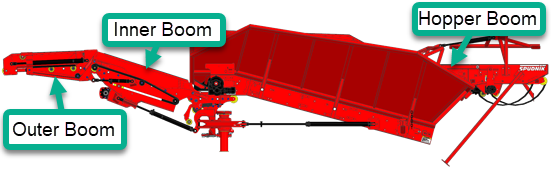
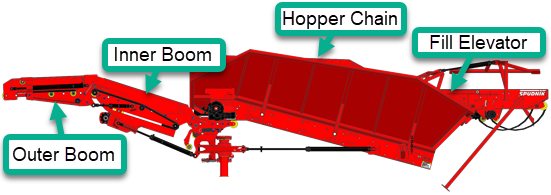
Revise Boom screen and Chain Screen
remove pressure display when no corresponding input is available. Update Hopper chain controls.

diff --git a/6844/control_panel_v6.html b/6844/control_panel_v6.html
@@ -19,8 +19,8 @@
 				class="b-settings pri-button pri icon-lg"></button>
 			<button onclick="changeColorTimed(this)" class="b-rowStart pri-button pri icon">Start Row</button>
 			<button onclick="changeColorTimed(this)" class="b-rowEnd pri-button pri icon">End Row</button>
-			<button id="run-button" onclick="toggleRUN()" class="b-run pri-button pri-em"><img
-					src="./icons/RUN_Sm.png" alt="RUN" style="margin-top: 8px;"></button>
+			<button id="run-button" onclick="toggleRUN()" class="b-run pri-button pri-em"><img src="./icons/RUN_Sm.png"
+					alt="RUN" style="margin-top: 8px;"></button>
 		</div>
 		<div id="controls">
 			<div id="control-body">
@@ -262,8 +262,8 @@
 							<th class="cell-border-bottom chains-psi">PSI</th>
 							<th class="cell-border-bottom chains-speed">Actual</th>
 							<th class="cell-border-bottom chains-speed">Target</th>
-							<th class="cell-border-bottom chains-override"
-								style="width:185px;padding: 0 12px 0 8px;">Manual
+							<th class="cell-border-bottom chains-override" style="width:185px;padding: 0 12px 0 8px;">
+								Manual
 								Override</th>
 						</tr>
 						<tr>
@@ -309,7 +309,7 @@
 									onclick="bumpChainSetpoint('chainPriSP','up')"></button>
 							</td>
 							<td class="mediumFont centerText cell-border-bottom chains-psi">
-								<span id="chainPriPSI">1229 PSI</span>
+								<span id="chainPriPSI"></span>
 							</td>
 							<td class="mediumFont centerText cell-border-bottom chains-speed">
 								<span id="chainPriActual">211 FPM</span>
@@ -387,7 +387,7 @@
 									onclick="bumpRollerSetpoint('chainClodSP','up')"></button>
 							</td>
 							<td class="mediumFont centerText cell-border-bottom chains-psi">
-								<span id="chainClodPSI">1179 PSI</span>
+								<span id="chainClodPSI"></span>
 							</td>
 							<td class="mediumFont centerText cell-border-bottom chains-speed">
 								<span id="chainClodActual">220 FPM</span>
@@ -414,7 +414,7 @@
 									onclick="bumpRollerSetpoint('chainTransferSP','up')"></button>
 							</td>
 							<td class="mediumFont centerText cell-border-bottom chains-psi">
-								<span id="chainTransferPSI">1179 PSI</span>
+								<span id="chainTransferPSI"></span>
 							</td>
 							<td class="mediumFont centerText cell-border-bottom chains-speed">
 								<span id="chainTransferActual">220 FPM</span>
@@ -441,7 +441,7 @@
 									onclick="bumpChainSetpoint('chainRearCrossSP','up')"></button>
 							</td>
 							<td class="mediumFont centerText cell-border-bottom chains-psi">
-								<span id="chainRearCrossPSI">1025 PSI</span>
+								<span id="chainRearCrossPSI"></span>
 							</td>
 							<td class="mediumFont centerText cell-border-bottom chains-speed">
 								<span id="chainRearCrossActual">225 FPM</span>
@@ -484,7 +484,7 @@
 							</td>
 						</tr>
 						<tr>
-							<td class="largeFont chains-row-padding cell-border-bottom">Hopper Boom:</td>
+							<td class="largeFont chains-row-padding cell-border-bottom">Fill Elevator:</td>
 							<td class="cell-border-bottom"><button class="ter-button ter b-bumpDown"
 									onclick="bumpChainSetpoint('chainPilerSP','dn')"></button>
 								<div class="inpPercent speedGround"><input type="number" class="spInput"
@@ -495,7 +495,7 @@
 									onclick="bumpChainSetpoint('chainPilerSP','up')"></button>
 							</td>
 							<td class="mediumFont centerText cell-border-bottom chains-psi">
-								<span id="chainPilerPSI">1135 PSI</span>
+								<span id="chainPilerPSI"></span>
 							</td>
 							<td class="mediumFont centerText cell-border-bottom chains-speed">
 								<span id="chainPilerActual">235 FPM</span>
@@ -507,33 +507,6 @@
 								<button class="ter-button ter icon counterClockwise button-left"
 									onclick="disableButton('pilerFwd')">Rev</button>
 								<button class="ter-button ter icon clockwise button-right button-rev" id="pilerFwd"
-									onclick="toggleButtonState(this)">Fwd</button>
-							</td>
-						</tr>
-						<tr>
-							<td class="largeFont chains-row-padding cell-border-bottom">Hopper Floor:</td>
-							<td class="cell-border-bottom"><button class="ter-button ter b-bumpDown"
-									onclick="bumpChainSetpoint('chainHoldTankSP','dn')"></button>
-								<div class="inpPercent speedGround"><input type="number" class="spInput"
-										id="chainHoldTankSPGround" value="150"></div>
-								<div class="inpChain speedFixed"><input type="number" class="spInput"
-										id="chainHoldTankSPFixed" value="260"></div>
-								<button class="ter-button ter b-bumpUp"
-									onclick="bumpChainSetpoint('chainHoldTankSP','up')"></button>
-							</td>
-							<td class="mediumFont centerText cell-border-bottom chains-psi">
-								<span id="chainHoldTankPSI">1140 PSI</span>
-							</td>
-							<td class="mediumFont centerText cell-border-bottom chains-speed">
-								<span id="chainHoldTankActual">240 FPM</span>
-							</td>
-							<td class="mediumFont centerText cell-border-bottom chains-speed">
-								<span id="chainHoldTankTarget" class="darkBlueText">260 FPM</span>
-							</td>
-							<td class="centerText cell-border-bottom chains-override hide">
-								&nbsp;&nbsp;&nbsp;&nbsp;&nbsp;&nbsp;&nbsp;&nbsp;&nbsp;&nbsp;&nbsp;
-								&nbsp;&nbsp;&nbsp;&nbsp;&nbsp;&nbsp;&nbsp;&nbsp;
-								<button class="ter-button ter icon clockwise button-rev" id="bunkerFwd"
 									onclick="toggleButtonState(this)">Fwd</button>
 							</td>
 						</tr>
@@ -654,8 +627,8 @@
 							<th class="cell-border-bottom cell-data-width">PSI</th>
 							<th class="cell-border-bottom cell-data-width chains-speed">Actual</th>
 							<th class="cell-border-bottom cell-data-width chains-speed">Target</th>
-							<th class="cell-border-bottom chains-override"
-								style="width:185px;padding: 0 12px 0 8px;">Manual
+							<th class="cell-border-bottom chains-override" style="width:185px;padding: 0 12px 0 8px;">
+								Manual
 								Override</th>
 						</tr>
 						</tr>
@@ -695,7 +668,7 @@
 									onclick="bumpRollerSetpoint('chainClodSP','up')"></button>
 							</td>
 							<td class="mediumFont centerText cell-border-bottom chains-psi">
-								<span id="chainClodPSI">1179 PSI</span>
+								<span id="chainClodPSI"></span>
 							</td>
 							<td class="mediumFont centerText cell-border-bottom chains-speed">
 								<span id="chainClodActual">220 FPM</span>
@@ -722,7 +695,7 @@
 									onclick="bumpRollerSetpoint('chainTransferSP','up')"></button>
 							</td>
 							<td class="mediumFont centerText cell-border-bottom chains-psi">
-								<span id="chainTransferPSI">1179 PSI</span>
+								<span id="chainTransferPSI"></span>
 							</td>
 							<td class="mediumFont centerText cell-border-bottom chains-speed">
 								<span id="chainTransferActual">220 FPM</span>
@@ -752,36 +725,36 @@
 								<div style="padding: 45px 10px;"><img src="./BoomWithLabels.png"></div>
 								<div
 									style="width: 100%;display: grid;grid-template-columns: 1fr 1fr 1fr 1fr; grid-template-rows: auto;">
-									<div style="grid-column: 1;grid-row: 1;padding:10px;"
+									<div style="grid-column: 1;grid-row: 1;padding:10px;" class="cell-border-bottom cell-border-right">
+										<h3 class="control-label">Boom In/Out</h3>
+										<button class="arrowRev ter-button ter icon-lg"></button>
+										<button class="arrowFwd ter-button ter icon-lg"></button>
+									</div>
+									<div style="grid-column: 2;grid-row: 1;padding:10px;"
 										class="cell-border-right cell-border-bottom">
 										<h3 class="control-label">Outer Boom</h3>
 										<button class="arrowUp ter-button ter icon-lg"></button>
 										<button class="arrowDown ter-button ter icon-lg"></button>
 									</div>
-									<div style="grid-column: 2;grid-row: 1;padding:10px;"
+									<div style="grid-column: 3;grid-row: 1;padding:10px;"
 										class="cell-border-right cell-border-bottom">
 										<h3 class="control-label">Inner Boom</h3>
 										<button class="arrowUp ter-button ter icon-lg"></button>
 										<button class="arrowDown ter-button ter icon-lg"></button>
 									</div>
-									<div style="grid-column: 3;grid-row: 1;padding:10px;"
-										class="cell-border-right cell-border-bottom">
+									<div style="grid-column: 4;grid-row: 1;padding:10px;"
+										class="cell-border-bottom">
 										<h3 class="control-label">Boom Swing</h3>
-										<button class="arrowRev ter-button ter icon-lg"></button>
-										<button class="arrowFwd ter-button ter icon-lg"></button>
-									</div>
-									<div style="grid-column: 4;grid-row: 1;padding:10px;" class="cell-border-bottom">
-										<h3 class="control-label">Extend Boom</h3>
-										<button class="arrowRev ter-button ter icon-lg"></button>
-										<button class="arrowFwd ter-button ter icon-lg"></button>
+										<button class="arrowNW ter-button ter icon-lg"></button>
+										<button class="arrowSW ter-button ter icon-lg"></button>
 									</div>
 								</div>
 								<div
 									style="width: 100%;display: grid;grid-template-columns: 2fr 1fr; grid-template-rows: auto;">
 									<div style="grid-column: 1; display: grid; grid-template-columns: 230px 65px 100px; grid-template-rows: auto auto; margin: 0;"
-										class="centerText cell-border-right">
+										class="centerText cell-border-right cell-border-bottom">
 										<div style="grid-column: 1 / 4; grid-row: 1; padding: 10px 0 10px 65px;">
-											<h3 class="control-label">Hopper Boom</h3>
+											<h3 class="control-label">Fill Elevator</h3>
 										</div>
 										<div
 											style="grid-column: 1; grid-row: 2; text-align: right; padding-right: 20px;">
@@ -791,7 +764,7 @@
 											</div>
 											<div class="inpPercent inpPercent2"
 												style="padding:10px;font-size: 20px;font-weight: bold;">
-												Up Speed: <input type="number" class="spInput" value="85">
+												Force Up: <input type="number" class="spInput" value="85">
 											</div>
 										</div>
 										<div style="grid-column: 2; grid-row: 2;">
@@ -805,12 +778,14 @@
 												<div class="bar-label">70</div>
 											</div>
 										</div>
-										<div style="grid-column: 3; grid-row: 2; padding-top: 10px;">
+										<div style="grid-column: 3; grid-row: 2; padding-top: 10px;padding-left: 15px;width: 100px;">
 											<button class="arrowUp ter-button ter icon-lg"></button>
 											<button class="arrowDown ter-button ter icon-lg"></button>
+											<br><br>
+											Speed: 0 FPM
 										</div>
 									</div>
-									<div style="grid-column: 2;padding: 8px 15px;">
+									<div style="grid-column: 2;padding: 8px 15px;" class="cell-border-bottom">
 										<h3 class="control-label" style="margin-bottom: 10px;">Boom Fold</h3>
 										<button class="ter-button ter">Fold</button>
 										<button class="ter-button ter">Unfold</button>
@@ -818,6 +793,23 @@
 											style="border: none;padding: 5px;font-weight: bold;font-size: larger; margin-left: 40px;">
 											<li><span class="dot green"></span>Unfolded</li>
 										</ul>
+									</div>
+								</div>
+								<div style="width: 80%; margin-top: 15px;margin-left: 75px;" class="centerText border-top-left-radius">
+									<h3 class="control-label">Hopper Chain</h3>
+									<div style="width: 310px; float: left;">
+										<div class="inpPercent inpPercent2"
+											style="padding:10px;font-size: 20px;font-weight: bold;">
+											Target Pile Height: <input type="number" class="spInput" value="40">
+										</div>
+										<div style="padding: 5px 10px 10px 15px;font-size: 20px;font-weight: bold; width: 310px;">
+											Max Chain Speed: <input style="width: 50px; padding-right: 30px;" type="number" class="spInput" value="120"><span style="color: #666;font-size:13px;position:relative;left: -30px;">FPM</span>
+										</div>
+									</div>
+									<div style="float: right;padding-top: 5px;">
+										<button class="ter-button ter button-left button-active" onclick="disableButton('segmentFwd')">On</button>
+										<button class="ter-button ter button-right" onclick="disableButton('segmentFwd')">Off</button><br><br>
+										Speed: 0 FPM
 									</div>
 								</div>
 							</td>
@@ -1060,7 +1052,7 @@
 				<div class="column">
 					<div class="row">
 						<h3>Machine Information</h3>
-<!--						<ul>
+						<!--						<ul>
 							<li>S4 SW Version 2.00</li>
 							<li>Display SW Version 1.00</li>
 							<li>SN 6844-55-25</li>
@@ -1177,8 +1169,10 @@
 					</div>
 					<div class="row" style="padding-left: 2px;padding-right: 2px;">
 						<h3>Display Brightness</h3>
-						<div style="text-align: center;"><button style="margin: 2px 2px;" class="ter ter-button">-</button> <button style="margin: 2px 2px;"
-								class="ter ter-button">Auto</button> <button style="margin: 2px 2px;" class="ter ter-button">+</button></div>
+						<div style="text-align: center;"><button style="margin: 2px 2px;"
+								class="ter ter-button">-</button> <button style="margin: 2px 2px;"
+								class="ter ter-button">Auto</button> <button style="margin: 2px 2px;"
+								class="ter ter-button">+</button></div>
 					</div>
 				</div>
 

diff --git a/6844/control_panel_v6.css b/6844/control_panel_v6.css
@@ -576,6 +576,14 @@ button.arrowRev {
 	background-image: url('./icons/arrow_rev_20.png');
 	background-position: center;
 }
+button.arrowNW {
+	background-image: url('./icons/arrow_NW_20.png');
+	background-position: center;
+}
+button.arrowSW {
+	background-image: url('./icons/arrow_SW_20.png');
+	background-position: center;
+}
 button.arrowClockwise {
 	background-image: url('./icons/arrow_top_right_20.png');
 	background-position: center;
